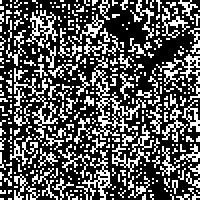
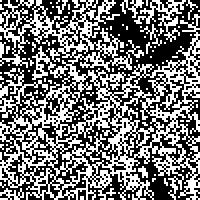
Added recovery; Minor fixes

diff --git a/Tests/Test_Watermark.py b/Tests/Test_Watermark.py
@@ -2,6 +2,7 @@ import matplotlib.pyplot as plt
 from skimage import io
 import Algorithm.Watermark as wm
 import Algorithm.TamperDetection as td
+import Algorithm.Recovery as rc
 
 
 def test1():
@@ -37,4 +38,44 @@ def test2():
                          bottom=0.02, left=0.02, right=0.98)
 
     io.imsave('Images/Test2L1.jpg', level1)
+    plt.show()
+
+
+def test3():
+    Watermarked = wm.apply_watermark('Images/Test1.jpg')
+    Recovered = rc.recovery(Watermarked)
+    fig, (ax_original, ax_watermarked) = plt.subplots(nrows=1, ncols=2, figsize=(10, 5))
+    ax_original.imshow(Recovered, cmap=plt.cm.gray)
+    ax_original.axis('off')
+    ax_original.set_title('Recovered', fontsize=10)
+    ax_watermarked.imshow(Watermarked, cmap=plt.cm.gray)
+    ax_watermarked.axis('off')
+    ax_watermarked.set_title('Watermarked', fontsize=10)
+
+    fig.subplots_adjust(wspace=0.02, hspace=0.02, top=0.9,
+                         bottom=0.02, left=0.02, right=0.98)
+
+    io.imsave('Images/TestRecovery1.jpg', Recovered)
+    plt.show()
+
+
+def test4():
+    Watermarked = wm.apply_watermark('Images/Test1.jpg')
+    h, w = Watermarked.shape
+    for i in range(0, w):
+        for o in range(0, h/4):
+            Watermarked[i, o] = 255
+    Recovered = rc.recovery(Watermarked)
+    fig, (ax_original, ax_watermarked) = plt.subplots(nrows=1, ncols=2, figsize=(10, 5))
+    ax_original.imshow(Recovered, cmap=plt.cm.gray)
+    ax_original.axis('off')
+    ax_original.set_title('Recovered', fontsize=10)
+    ax_watermarked.imshow(Watermarked, cmap=plt.cm.gray)
+    ax_watermarked.axis('off')
+    ax_watermarked.set_title('Watermarked', fontsize=10)
+
+    fig.subplots_adjust(wspace=0.02, hspace=0.02, top=0.9,
+                         bottom=0.02, left=0.02, right=0.98)
+
+    io.imsave('Images/TestRecovery1.jpg', Recovered)
     plt.show()

diff --git a/Algorithm/Watermark.py b/Algorithm/Watermark.py
@@ -4,11 +4,12 @@ import Functions
 
 
 def apply_watermark(filename):
-    image = io.imread(filename) # Image in gray scale
+    img = io.imread(filename) # Image in gray scale
+    image = img.copy()
     blocks = []
     height, width = image.shape
-    hor_block = height / 4
-    ver_block = width / 4
+    hor_block = width / 4
+    ver_block = height / 4
     for x in range(0, hor_block):
         for y in range(0, ver_block):
             x_coor = x * 4
@@ -37,13 +38,21 @@ def apply_watermark(filename):
                 p = 1
                 if Functions.ones_in_sixMSB(average) % 2 == 0:
                     p = 0
-                subblock_a = block_A[i_coor: i_coor+2, j_coor: j_coor+2]
+                subblock_a = block_A[i_coor: i_coor+2, j_coor: j_coor+2].copy()
                 avg_as = Functions.average(subblock_a)
                 r = Functions.split_binary_sixMSB(avg_as)
-                blockBS[0][0] = blockBS[0][0] + v + r[0]
-                blockBS[0][1] = blockBS[0][1] + p + r[1]
-                blockBS[1][0] = blockBS[1][0] + r[2] + r[3]
-                blockBS[1][1] = blockBS[1][1] + r[4] + r[5]
+                if v == 1:
+                    v = 2
+                if p == 1:
+                    p = 2
+                if r[2] == 1:
+                    r[2] = 2
+                if r[4] == 1:
+                    r[4] = 2
+                blockBS[0][0] = (blockBS[0][0] + v + r[0])
+                blockBS[0][1] = (blockBS[0][1] + p + r[1])
+                blockBS[1][0] = (blockBS[1][0] + r[2] + r[3])
+                blockBS[1][1] = (blockBS[1][1] + r[4] + r[5])
     return image
 
 

diff --git a/Algorithm/Recovery.py b/Algorithm/Recovery.py
@@ -1,0 +1,43 @@
+import Functions
+import TamperDetection as td
+
+
+def recovery(block):
+    recovered = block.copy()
+    recovered.fill(0)
+    image = block.copy()
+    blocks = []
+    blocks2 = []
+    height, width = image.shape
+    hor_block = width / 4
+    ver_block = height / 4
+    for x in range(0, hor_block):
+        for y in range(0, ver_block):
+            x_coor = x * 4
+            y_coor = y * 4
+            block = image[x_coor: x_coor + 4, y_coor: y_coor + 4]
+            blocks.append(block)
+            block2 = recovered[x_coor: x_coor + 4, y_coor: y_coor + 4]
+            blocks2.append(block2)
+
+    n = len(blocks)
+    k = Functions.get_biggest_prime(n)
+
+    for index in range(0, n):
+        block_B = blocks[index]
+        block_C = blocks2[Functions.mapping(index + 1, k, n) - 1]
+        for i in range(0, 2):
+            for j in range(0, 2):
+                i_coor = i * 2
+                j_coor = j * 2
+                blockBS = block_B[i_coor: i_coor+2, j_coor: j_coor+2]
+                r0 = td.extract_LSB(blockBS[0,0], 1)<<8
+                r1 = td.extract_LSB(blockBS[0,1], 1)<<7
+                r2 = td.extract_LSB(blockBS[1,0], 1)<<6
+                r3 = td.extract_LSB(blockBS[1,0], 2)<<5
+                r4 = td.extract_LSB(blockBS[1,1], 1)<<4
+                r5 = td.extract_LSB(blockBS[1,1], 2)<<3
+                r = r0 + r1+ r2+ r3+ r4+ r5
+                blockAS = block_C[i_coor: i_coor+2, j_coor: j_coor+2]
+                blockAS.fill(r)
+    return recovered

diff --git a/main.py b/main.py
@@ -1,5 +1,7 @@
 import Tests.Test_Watermark as test
 
 
-test.test1()
-test.test2()
+#test.test1()
+#test.test2()
+#test.test3()
+test.test4()
